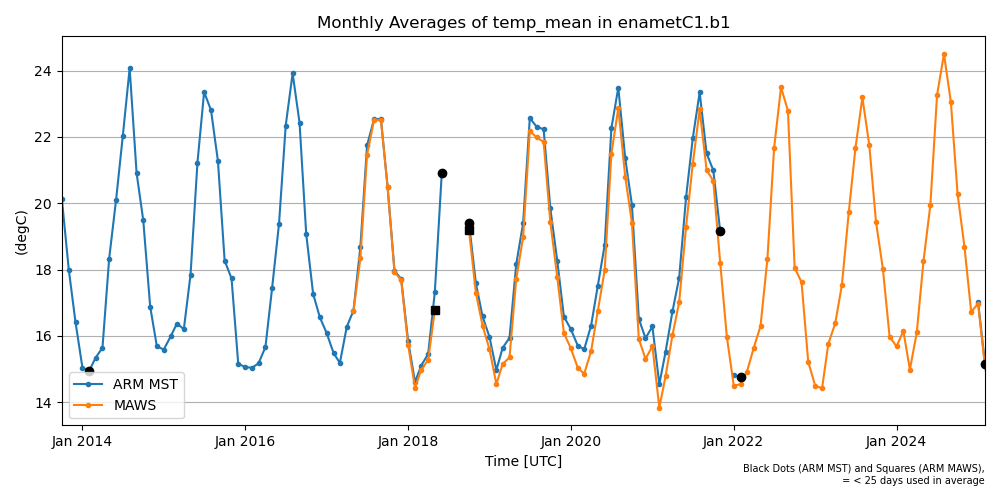
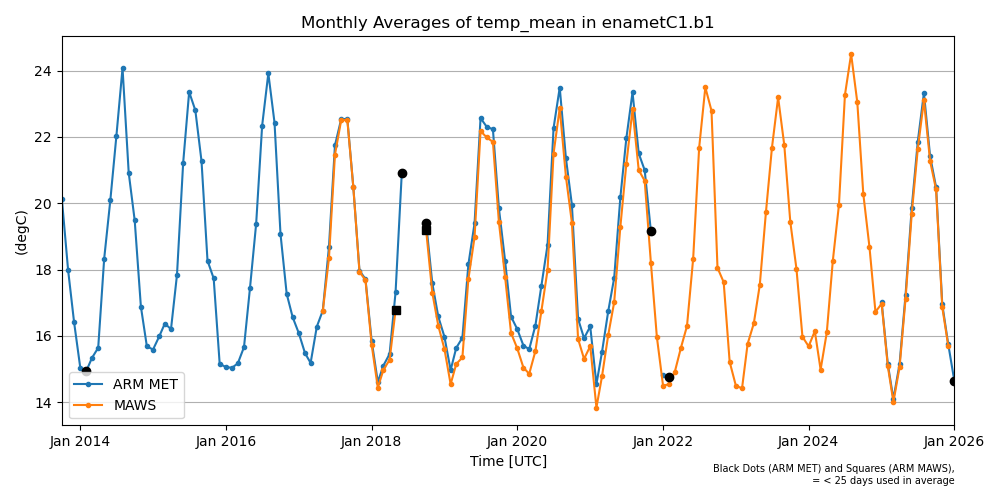
ENH: New plots and results

diff --git a/plot_climatology_comp.py b/plot_climatology_comp.py
@@ -19,6 +19,7 @@ plot_dict = {
     'p1': {'ds': {'nsametC1.b1': 'temp_mean', 'nsa60noaacrnX1.b1': 'temperature', 'nsamawsC1.b1': 'atmospheric_temperature'}, 'averaging': ['YS', 'MS'], 'units': 'degC'},
     'p2': {'ds': {'sgpmetE13.b1': 'temp_mean', 'sgpmawsC1.b1': 'atmospheric_temperature'}, 'averaging': ['YS', 'MS'], 'units': 'degC'},
     'p3': {'ds': {'enametC1.b1': 'temp_mean', 'enamawsC1.b1': 'atmospheric_temperature'}, 'averaging': ['YS', 'MS'], 'units': 'degC'},
+    'p4': {'ds': {'enametC1.b1': 'rh_mean', 'enamawsC1.b1': 'atmospheric_relative_humidity'}, 'averaging': ['YS', 'MS'], 'units': '%'},
 }
 
 for plot in plot_dict:
@@ -41,7 +42,7 @@ for plot in plot_dict:
 
         obj = act.io.read_csv(filename, column_names=names, index_col=0, parse_dates=['time'], date_format="%Y-%m-%dT%H:%M:%S", header=0)
 
-        ds_dict['ARM MST'] = obj
+        ds_dict['ARM MET'] = obj
 
         filename = './results/' + ds2 + '_' + variable2 + '_' + averaging + '.csv'
         obj2 = act.io.read_csv(filename, column_names=names, index_col=0, parse_dates=['time'], date_format="%Y-%m-%dT%H:%M:%S", header=0)
@@ -70,7 +71,7 @@ for plot in plot_dict:
         # and less than 334 days for yearly averages
         if averaging == 'MS':
             idx = np.where(obj['n_samples'] < 28 * 24 * 60)
-            sub_text = 'Black Dots (ARM MST) and Squares (ARM MAWS),\n = < 25 days used in average'
+            sub_text = 'Black Dots (ARM MET) and Squares (ARM MAWS),\n = < 25 days used in average'
             if 'nsa60noaa' in ds:
                 idx = np.where(obj['n_samples'] < 25 * 24) # For hourly averaged data
             idx2 = np.where(obj2['n_samples'] < 25 * 24 * 60)
@@ -80,12 +81,12 @@ for plot in plot_dict:
                 idx3 = np.where(obj3['n_samples'] < 25 * 24 * 60)
                 if 'nsa60noaa' in ds3:
                     idx3 = np.where(obj3['n_samples'] < 25 * 24) # For hourly averaged data
-                    sub_text = 'Black Dots (ARM MST), Triangles (ARM MAWS),\nand Squares (NOAA) = < 25 days used in average'
+                    sub_text = 'Black Dots (ARM MET), Triangles (ARM MAWS),\nand Squares (NOAA) = < 25 days used in average'
             plt.text(1.0, -0.15, sub_text, transform=display.axes[0].transAxes, fontsize=7,
                      horizontalalignment='right')
             myFmt = mdates.DateFormatter('%b %Y')
         if averaging == 'YS':
-            sub_text = 'Black Dots (ARM MST) and Squares (ARM MAWS),\n = < 334 days used in average'
+            sub_text = 'Black Dots (ARM MET) and Squares (ARM MAWS),\n = < 334 days used in average'
             idx = np.where(obj['n_samples'] < 334 * 24 * 60)
             if 'nsa60noaa' in ds:
                 idx = np.where(obj['n_samples'] < 334 * 24) # For hourly averaged data
@@ -99,7 +100,7 @@ for plot in plot_dict:
                 idx3 = np.where(obj3['n_samples'] < 334 * 24 * 60)
                 if 'nsa60noaa' in ds3:
                     idx3 = np.where(obj3['n_samples'] < 334 * 24) # For hourly averaged data
-                    sub_text = 'Black Dots (ARM MST), Triangles (ARM MAWS),\nand Squares (NOAA) = < 334 days used in average'
+                    sub_text = 'Black Dots (ARM MET), Triangles (ARM MAWS),\nand Squares (NOAA) = < 334 days used in average'
 
             plt.text(1.0, -0.15, sub_text, transform=display.axes[0].transAxes, fontsize=7,
                      horizontalalignment='right')

diff --git a/plot_climatology.py b/plot_climatology.py
@@ -45,7 +45,7 @@ for ds in ds_dict:
             obj = act.io.read_csv(filename, column_names=names, index_col=0, parse_dates=['time'], date_format="%Y-%m-%dT%H:%M:%S", header=0)
             # Set Up Plot
             display = act.plotting.TimeSeriesDisplay(obj, figsize=(10,5))
-            if averaging == 'M':
+            if averaging == 'MS':
                 title = 'Monthly Averages of ' + variable + ' in '+ ds
                 #if 'nsa60noaa' in ds:
                 #    title = 'Monthly Total of Precipitation in ' + ds

diff --git a/README.md b/README.md
@@ -75,6 +75,19 @@ Figure 8. SGP yearly total precipitation.
 ![SGP Precipitation Totals by Month](https://github.com/AdamTheisen/ARM-Climatologies/blob/main/images/sgpmetE13.b1_tbrg_precip_total_by_month.png)
 Figure 9. SGP precipitation totals by month.
 
+### Eastern North Atlantic
+#### Temperature
+Temperatures at ENA have seen more variability in recent years (2018-2025) compared to the intial record (Fig. 8).  The MET instrument has had significant problems, resulting in much of the data being filtered out from 2018-onward.  It was known that the MET suffered from increased noise as compared to the MAWS system.  The MAWS system should be considered a suitable stand-in for the periods the MET is problematic.
+
+Figure 9 shows the monthly average temperature with the summer of 2024 being the hottest on record with 2025 more in line with previous years.
+
+![ENA Yearly Average Temperatures](https://github.com/AdamTheisen/ARM-Climatologies/blob/main/images/enametC1.b1_temp_mean_enamawsC1.b1_atmospheric_temperature_YS.png)
+Figure 8. ENA yearly average temperature.
+
+![ENA Monthly Average Temperatures](https://github.com/AdamTheisen/ARM-Climatologies/blob/main/images/enametC1.b1_temp_mean_enamawsC1.b1_atmospheric_temperature_MS.png)
+Figure 9. ENA monthly average temperature.
+
+
 ## Conclusions
 This repository will serve as a single point of reference for ongoing climatology results for the ARM fixed sites.  The analysis will be expanded to the other fixed sites and updated on a yearly basis.  Additional statistics, instruments, and variables will be added as requested and time permits. 
 
